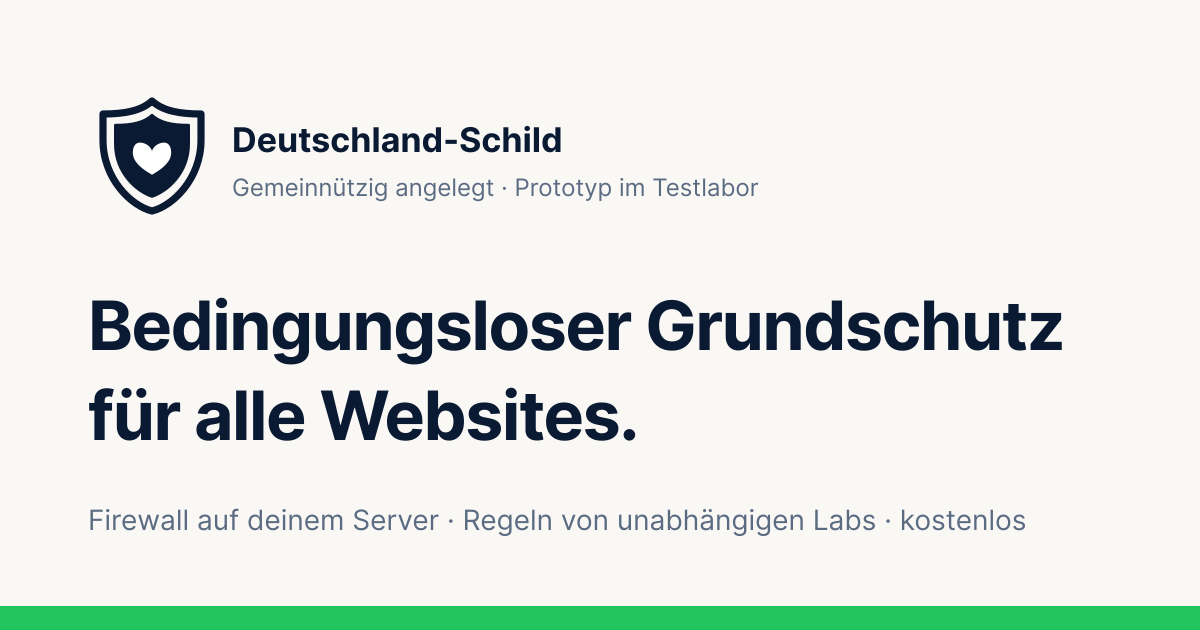
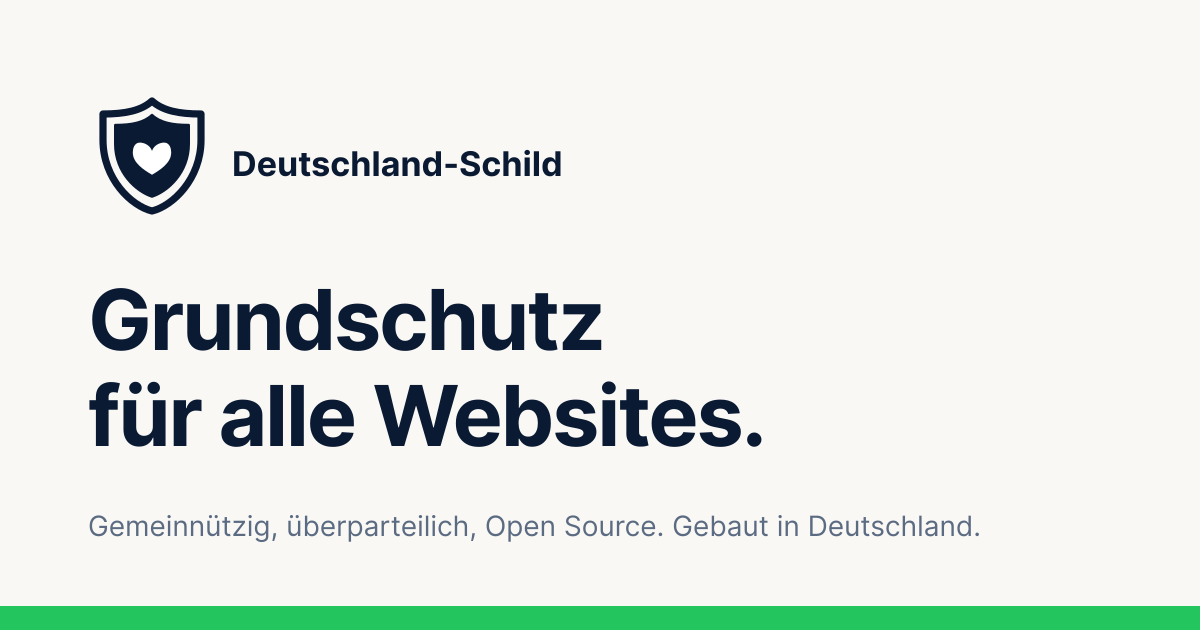
Site: the share image carries the claim of the footer

diff --git a/site/nuxt.config.ts b/site/nuxt.config.ts
@@ -245,16 +245,16 @@ export default defineNuxtConfig({
         { name: 'viewport', content: 'width=device-width, initial-scale=1' },
         { name: 'theme-color', content: '#0A1A33' },
         // Max. 160 characters. Pages override description via useSeoMeta; og:url and canonical are set per route in app.vue.
-        { name: 'description', content: 'Schild Gateway ist eine kostenlose, quelloffene Firewall für deine Website. Läuft auf deinem eigenen Server, dein Traffic bleibt dort.' },
+        { name: 'description', content: 'Schild Gateway ist eine kostenlose, quelloffene Firewall für deine Website. Läuft auf deinem eigenen Server, deine Daten bleiben dort.' },
         { property: 'og:type', content: 'website' },
         { property: 'og:locale', content: 'de_DE' },
         { property: 'og:site_name', content: 'Deutschland-Schild' },
         { property: 'og:title', content: 'Schild Gateway – die kostenlose Firewall für deine Website' },
-        { property: 'og:description', content: 'Schild Gateway ist eine kostenlose, quelloffene Firewall für deine Website. Läuft auf deinem eigenen Server, dein Traffic bleibt dort.' },
+        { property: 'og:description', content: 'Schild Gateway ist eine kostenlose, quelloffene Firewall für deine Website. Läuft auf deinem eigenen Server, deine Daten bleiben dort.' },
         { property: 'og:image', content: `${SITE_URL}/og-image.png` },
         { property: 'og:image:width', content: '1200' },
         { property: 'og:image:height', content: '630' },
-        { property: 'og:image:alt', content: 'Schild Gateway: die kostenlose Firewall für deine Website.' },
+        { property: 'og:image:alt', content: 'Deutschland-Schild: Grundschutz für alle Websites. Gemeinnützig, überparteilich, Open Source. Gebaut in Deutschland.' },
         { name: 'twitter:card', content: 'summary_large_image' },
       ],
       link: [
